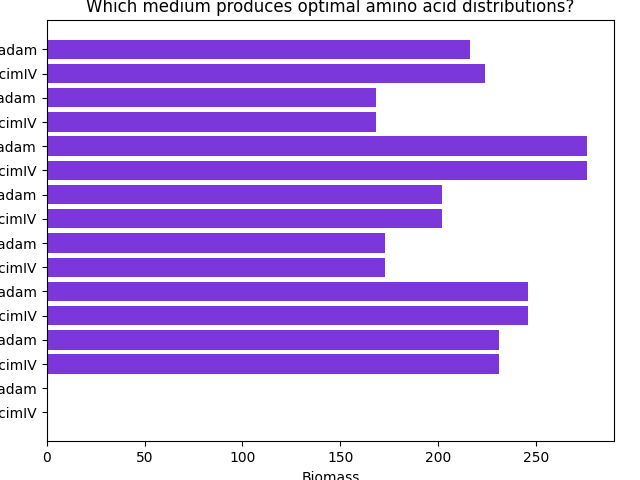
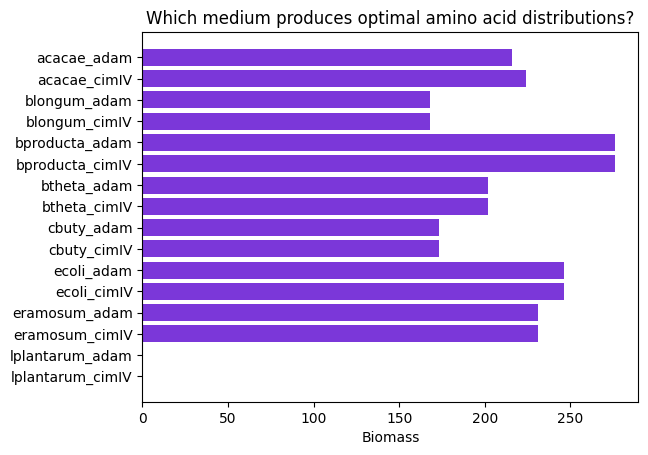
fixed biomasses.png

diff --git a/src/wp2.py b/src/wp2.py
@@ -184,7 +184,6 @@ def plot_biomasses(df: pd.DataFrame):
 
     plt.rcdefaults()
     fig, ax = plt.subplots()
-    plt.tight_layout()
 
     # Example data
     y_pos = np.arange(len(df))
@@ -195,7 +194,7 @@ def plot_biomasses(df: pd.DataFrame):
     ax.set_xlabel('Biomass')
     ax.set_title('Which medium produces optimal amino acid distributions?')
 
-    plt.savefig("output/plots/biomasses.png")
+    plt.savefig("output/plots/biomasses.png", bbox_inches = "tight")
 
 if __name__ == "__main__":
     # create_models()
